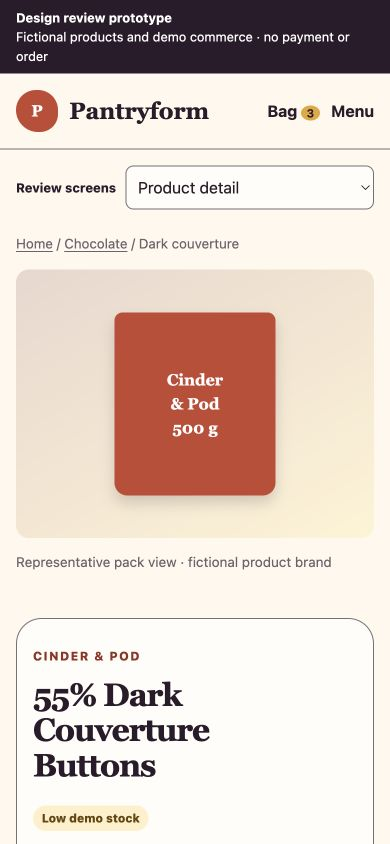
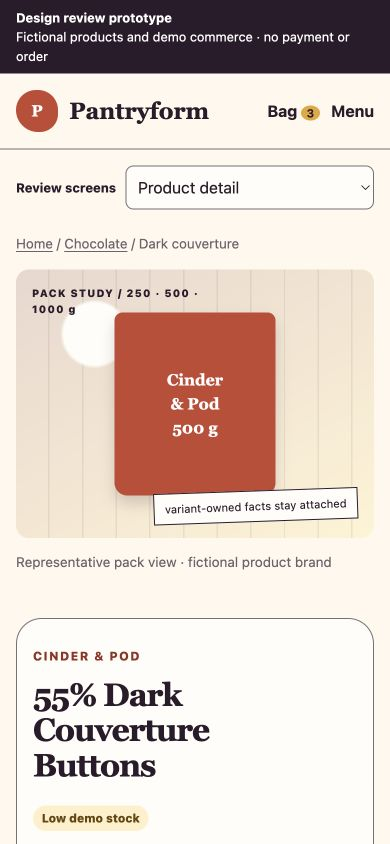
Refine Phase 4A: elevate creative direction

Changed region(s): [[0.3692, 0.5545, 0.9231, 0.6469], [0.0615, 0.3389, 0.4, 0.4313], [0.4308, 0.3389, 0.4923, 0.3697]]

diff --git a/design_review/phase_4a/app.js b/design_review/phase_4a/app.js
@@ -27,8 +27,11 @@ function confirmation(){return shell(`<div class="notice success"><p class="eyeb
 function drawer(filters=false){return shell(`<p class="eyebrow">Mobile review composition</p><h1>${filters?'Filter products':'Navigation drawer'}</h1><div class="drawer-backdrop"><aside class="drawer" role="dialog" aria-modal="true" aria-labelledby="drawer-title"><div class="toolbar"><h2 id="drawer-title">${filters?'Filter Chocolate':'Menu'}</h2><a class="button secondary" href="?view=${filters?'plp':'home'}">Close</a></div>${filters?`<p>2 filters selected</p><fieldset><legend><b>Format</b></legend><label class="checkline"><input type="checkbox" checked> Buttons (4)</label><label class="checkline"><input type="checkbox"> Chips (2)</label></fieldset><fieldset><legend><b>Pack size</b></legend><label class="checkline"><input type="checkbox" checked> 500 g (3)</label><label class="checkline"><input type="checkbox"> 1 kg (2)</label></fieldset><div class="actions"><button>Show 6 results</button><button class="secondary">Clear all</button></div>`:`<nav aria-label="Mobile"><a href="?view=plp">Shop <span>8 departments</span></a><a href="?view=recipe">Recipes</a><a href="?view=search">Search</a><a href="?view=wishlist">Wishlist <span>2</span></a><a href="?view=cart">Demo cart <span>3</span></a></nav>`}</aside></div>`)}
 function states(){return shell(`<p class="eyebrow">State language</p><h1>Important states</h1><div class="grid state-grid"><article class="card state-card"><span class="badge warn">Unavailable</span><h2>That pack is unavailable</h2><p>The selected 1 kg demo variant stays visible. Choose another explicit pack; nothing changes automatically.</p><button class="secondary">View other packs</button></article><article class="card state-card"><span class="badge error">Cart needs review</span><h2>A demo price changed</h2><p>Review the old and current price before continuing.</p><button>Review changed line</button></article><article class="card state-card"><h2>No exact matches</h2><p>Try removing “500 g”, browse Chocolate, or search for a broader term.</p><div class="actions"><button class="secondary">Remove 500 g</button><a class="button" href="?view=plp">Shop all</a></div></article><article class="card state-card"><h2>Critical product fact</h2><dl class="fact-list"><dt>Allergens</dt><dd><strong>Information not provided</strong></dd></dl><p>Unknown information is never inferred as “none”.</p></article><article class="card state-card"><span class="badge warn">Partial mapping</span><h2>1 ingredient needs review</h2><p>Salt has no mapped product. Explicitly omit it, mark it pantry-owned or return to the recipe.</p><button>Review ingredient</button></article><article class="card state-card"><span class="badge error">Something went wrong</span><h2>We couldn’t update the demo cart</h2><p>Your current items are unchanged.</p><button>Try again</button></article></div>`)}
 function components(){return shell(`<p class="eyebrow">Measured Joy system</p><h1>Major component and state sheet</h1><section class="section"><h2>Semantic colour</h2><div class="swatches"><span class="swatch" style="background:#2b1b2b;color:white">Ink</span><span class="swatch" style="background:#fff8ed">Canvas</span><span class="swatch" style="background:#c84832;color:white">Action</span><span class="swatch" style="background:#e5a72e">Accent</span><span class="swatch" style="background:#376348;color:white">Success</span><span class="swatch" style="background:#175cd3;color:white">Focus</span></div></section><section class="section"><h2>Actions and controls</h2><div class="actions"><button>Primary action</button><button class="secondary">Secondary</button><button class="tertiary">Text link action</button><button disabled>Loading…</button></div><div class="choice-row" style="margin-top:1rem"><button class="choice" aria-pressed="false">250 g</button><button class="choice" aria-pressed="true">500 g selected</button><button class="choice" disabled>1 kg unavailable</button></div></section><section class="section"><h2>Status and feedback</h2><div class="grid component-grid"><div class="notice"><b>Information</b><p>Variant facts update together.</p></div><div class="notice success"><b>Added to demo cart</b><p>1 pack was added.</p></div><div class="notice error"><b>Action needed</b><p>Review the unavailable line.</p></div></div></section><section class="section"><h2>Cards at working density</h2><div class="grid products">${products.slice(0,3).map(productCard).join('')}</div></section>`)}
-const render={home,plp,search:()=>plp(true),pdp,recipe,'recipe-cart':recipeCart,wishlist:()=>cart(true),cart,checkout,confirmation,nav:()=>drawer(false),filters:()=>drawer(true),states,components};
+function homeCreative(){const dept=[['Ingredients','01','From flour to finish'],['Chocolate','02','Melt · mould · layer'],['Colours & Flavours','03','Tint and infuse'],['Fillings & Fondant','04','Build and cover'],['Decorating','05','Pipe and detail'],['Bakeware & Tools','06','Shape the method'],['Packaging','07','Carry the finish'],['Recipes','08','Measure into making']];return shell(`<section class="measure-hero"><div class="measure-copy"><p class="eyebrow">Raw ingredient → precise measure → joyful make</p><h1>Everything for the bake, <em>measured into place.</em></h1><p class="lede">A curated working pantry for Indian home bakers—where sensory inspiration meets pack sizes, quantities and useful choices.</p><div class="actions"><a class="button" href="?view=plp">Enter the working pantry</a><a class="button secondary" href="?view=recipe">Begin with a recipe</a></div></div><div class="ingredient-stage" role="img" aria-label="Abstract ingredient study: cocoa, flour and a measured spoon arranged around a quantity scale"><span class="stage-label">INGREDIENT STUDY / 01</span><span class="ingredient flour"></span><span class="ingredient cocoa"></span><span class="ingredient colour"></span><span class="measure-spoon">75 g</span><span class="measure-axis" aria-hidden="true">0 — 25 — 50 — 75 — 100 g</span></div><div class="hero-note"><b>Measured Joy</b><span>Inspiration stays generous. Product facts stay exact.</span></div></section><section class="making-sequence" aria-labelledby="making-title"><div class="sequence-index">01—03</div><div><p class="eyebrow">A Pantryform signature</p><h2 id="making-title">From raw ingredient to finished intention</h2></div><ol><li><b>Raw</b><span>Texture and possibility</span></li><li><b>Measured</b><span>Quantity, pack and leftover</span></li><li><b>Made</b><span>A recipe ready to begin</span></li></ol></section><section class="department-atlas"><header><p class="eyebrow">The working pantry / eight departments</p><h2>Find the material, tool or finish.</h2><a href="?view=plp">View all 24 demo products →</a></header><div class="atlas-grid">${dept.map((d,i)=>`<a class="atlas-item atlas-${i+1}" href="${d[0]==='Recipes'?'?view=recipe':'?view=plp'}"><span class="atlas-number">${d[1]}</span><span class="atlas-shape" aria-hidden="true"></span><h3>${d[0]}</h3><p>${d[2]}</p></a>`).join('')}</div></section><section class="editorial-product-stage"><div class="stage-copy"><p class="eyebrow">Ingredient Theatre / controlled</p><h2>A closer look at what changes the bake.</h2><p>One tactile ingredient study leads into a precise product decision: fictional brand, pack, demo price and availability remain inseparable.</p><a class="button secondary" href="?view=pdp">Explore dark couverture</a></div><div class="stage-product">${productCard(products[1],1)}</div><div class="cocoa-field" aria-hidden="true"><span></span><span></span><span></span><span></span><b>55%</b></div></section><section class="recipe-bridge"><div class="recipe-number">12</div><div><p class="eyebrow">Recipe → supplies</p><h2>Chocolate celebration cake</h2><p>Scale the servings. See what the recipe asks for. Review the smallest sufficient packs and every expected leftover.</p></div><div class="recipe-path" aria-hidden="true"><span>240 g</span><i></i><span>500 g pack</span><i></i><span>260 g left</span></div><a class="button" href="?view=recipe-cart">See the transformation</a></section>${demoNotice}`)}
+const render={home:homeCreative,plp,search:()=>plp(true),pdp,recipe,'recipe-cart':recipeCart,wishlist:()=>cart(true),cart,checkout,confirmation,nav:()=>drawer(false),filters:()=>drawer(true),states,components};
 main.innerHTML=render[view]();
+document.body.classList.add(`view-${view}`);
+if(view==='recipe-cart'){const title=main.querySelector('h1');title.insertAdjacentHTML('afterend',`<div class="transformation-signature" aria-label="Recipe-to-supplies transformation"><span><b>01</b> Recipe need</span><i aria-hidden="true"></i><span><b>02</b> Measured quantity</span><i aria-hidden="true"></i><span><b>03</b> Selected pack</span><i aria-hidden="true"></i><span><b>04</b> Explicit cart</span></div>`)}
 document.title=`${views[view]} — Pantryform Phase 4A`;
 document.querySelectorAll('[data-action]').forEach(el=>el.addEventListener('click',()=>{status.textContent=el.dataset.action==='recipe-add'?'3 selected ingredients added to the demo cart.':'Added to the demo cart.'}));
 const form=document.querySelector('#demo-form');if(form)form.addEventListener('submit',e=>{e.preventDefault();if(form.reportValidity())location.href='?view=confirmation'});

diff --git a/design_review/phase_4a/styles.css b/design_review/phase_4a/styles.css
@@ -8,3 +8,9 @@
 .hero-art:after{right:0}
 .text-zoom{font-size:200%}.force-reduced-motion *,.force-reduced-motion *:before,.force-reduced-motion *:after{scroll-behavior:auto!important;animation:none!important;transition:none!important}
 .text-zoom *{min-width:0;max-width:100%;overflow-wrap:anywhere}.text-zoom .site-header{display:block}.text-zoom .brand small{display:none}.text-zoom .brand b{font-size:1rem}.text-zoom .header-actions{margin-top:.75rem;flex-wrap:wrap}.text-zoom .actions{display:grid}.text-zoom .mapping-row.meta,.text-zoom .cart-line.meta{display:none}.text-zoom .checkline{flex-wrap:wrap}.text-zoom .badge{white-space:normal}.text-zoom .summary-line{display:block}.text-zoom .swatch{width:100%;border-radius:var(--r-sm)}
+
+/* Phase 4A art direction: ingredient → measure → method → make. */
+.measure-hero{min-height:680px;display:grid;grid-template-columns:minmax(0,1fr) minmax(420px,.92fr);gap:4rem;align-items:center;position:relative;padding:3rem 0 6rem}.measure-copy h1{font-size:clamp(3.6rem,7vw,7rem);max-width:10ch}.measure-copy h1 em{font-weight:400;color:var(--coral-dark)}.ingredient-stage{aspect-ratio:1;position:relative;background:radial-gradient(circle at 42% 38%,#f7e9d2 0 42%,transparent 43%),repeating-radial-gradient(circle at 60% 60%,rgba(43,27,43,.06) 0 1px,transparent 1px 8px);border-radius:48% 52% 43% 57%;isolation:isolate}.stage-label{position:absolute;right:0;top:8%;font-size:.68rem;font-weight:850;letter-spacing:.14em;writing-mode:vertical-rl}.ingredient{position:absolute;border-radius:50%;box-shadow:0 20px 45px rgba(43,27,43,.14)}.ingredient.flour{width:38%;height:38%;left:14%;top:14%;background:radial-gradient(circle,#fffdf8 0 3px,#efe4d4 4px 6px,#fff8ed 7px)}.ingredient.cocoa{width:30%;height:30%;right:10%;bottom:16%;background:radial-gradient(circle at 35% 30%,#884b35,#4b251f 65%)}.ingredient.colour{width:16%;height:16%;right:22%;top:20%;background:radial-gradient(circle at 35% 30%,#efbd40,#c67d00)}.measure-spoon{position:absolute;left:8%;bottom:12%;width:56%;height:13%;border:2px solid var(--ink);border-radius:999px;background:var(--surface);display:flex;align-items:center;justify-content:flex-end;padding-right:1.2rem;font-weight:850;transform:rotate(-11deg);z-index:2}.measure-spoon:before{content:"";width:32%;aspect-ratio:1;position:absolute;left:-2%;border:2px solid var(--ink);border-radius:50%;background:var(--turmeric)}.measure-axis{position:absolute;left:0;top:50%;font-size:.66rem;letter-spacing:.12em;transform:rotate(-90deg) translateX(-50%);transform-origin:left top}.hero-note{position:absolute;right:0;bottom:1.5rem;width:46%;display:grid;grid-template-columns:auto 1fr;gap:1rem;border-top:2px solid var(--ink);padding-top:.75rem;font-size:.85rem}.making-sequence{margin:0 calc(50% - 50vw);padding:4rem max(1rem,calc((100vw - var(--max))/2));background:var(--ink);color:white;display:grid;grid-template-columns:6rem 1fr 1.3fr;gap:3rem;align-items:start}.sequence-index{font-family:Georgia,serif;font-size:2rem;color:var(--turmeric)}.making-sequence ol{list-style:none;padding:0;margin:0;display:grid;grid-template-columns:repeat(3,1fr)}.making-sequence li{min-height:130px;border-left:1px solid #766979;padding:0 1.2rem;display:flex;flex-direction:column;justify-content:space-between}.making-sequence li b{font-family:Georgia,serif;font-size:1.8rem}.making-sequence li span{color:#d9ced9}.department-atlas{padding:7rem 0}.department-atlas>header{display:grid;grid-template-columns:1.3fr 1fr;align-items:end;margin-bottom:2rem}.department-atlas>header .eyebrow{grid-column:1/-1}.department-atlas>header h2{font-size:clamp(2.6rem,5vw,5rem);max-width:11ch}.department-atlas>header>a{justify-self:end;margin-bottom:1rem}.atlas-grid{display:grid;grid-template-columns:repeat(12,1fr);grid-auto-rows:74px;gap:1rem}.atlas-item{border-top:2px solid var(--ink);padding:.8rem;position:relative;overflow:hidden;text-decoration:none;background:var(--surface);display:flex;flex-direction:column;justify-content:flex-end}.atlas-item h3{margin:0;z-index:2}.atlas-item p{margin:.25rem 0 0;color:var(--muted);font-size:.78rem;z-index:2}.atlas-number{position:absolute;right:.7rem;top:.5rem;font-size:.65rem;font-weight:850}.atlas-shape{position:absolute;width:90px;height:90px;border-radius:50%;background:var(--rose);right:-20px;top:-25px}.atlas-2 .atlas-shape,.atlas-5 .atlas-shape{border-radius:0;transform:rotate(34deg);background:#d8b39b}.atlas-3 .atlas-shape,.atlas-8 .atlas-shape{background:var(--turmeric);clip-path:polygon(50% 0,100% 100%,0 100%)}.atlas-1{grid-column:1/6;grid-row:1/4}.atlas-2{grid-column:6/10;grid-row:1/3}.atlas-3{grid-column:10/13;grid-row:1/5}.atlas-4{grid-column:1/4;grid-row:4/7}.atlas-5{grid-column:4/8;grid-row:3/7}.atlas-6{grid-column:8/10;grid-row:3/7}.atlas-7{grid-column:10/13;grid-row:5/7}.atlas-8{grid-column:1/13;grid-row:7/9;background:var(--ink);color:#fff}.atlas-8 p{color:#ddd0dd}.editorial-product-stage{margin:0 calc(50% - 50vw);padding:6rem max(1rem,calc((100vw - var(--max))/2));background:#ead8cc;display:grid;grid-template-columns:1fr .8fr 1fr;gap:3rem;align-items:center;overflow:hidden}.stage-copy h2{font-size:clamp(2.7rem,5vw,5.6rem)}.stage-product{transform:rotate(2deg);z-index:2}.stage-product .product-card{box-shadow:var(--shadow)}.cocoa-field{position:relative;aspect-ratio:1}.cocoa-field span{position:absolute;border-radius:50%;background:#633329;box-shadow:inset -15px -15px 25px rgba(0,0,0,.22)}.cocoa-field span:nth-child(1){width:45%;height:45%;left:5%;top:8%}.cocoa-field span:nth-child(2){width:28%;height:28%;right:5%;top:0}.cocoa-field span:nth-child(3){width:36%;height:36%;right:12%;bottom:8%}.cocoa-field span:nth-child(4){width:20%;height:20%;left:15%;bottom:5%}.cocoa-field b{position:absolute;inset:34% auto auto 32%;font-family:Georgia,serif;font-size:5rem;color:#fff}.recipe-bridge{padding:7rem 0;display:grid;grid-template-columns:.4fr 1.1fr 1fr auto;gap:2rem;align-items:center;border-bottom:1px solid var(--ink)}.recipe-number{font-family:Georgia,serif;font-size:clamp(6rem,12vw,11rem);line-height:.7;color:var(--coral)}.recipe-path{display:flex;align-items:center;gap:.5rem;font-size:.72rem;font-weight:800}.recipe-path i{height:1px;flex:1;background:var(--ink);position:relative}.recipe-path i:after{content:"";position:absolute;right:0;top:-3px;border-left:6px solid var(--ink);border-top:3px solid transparent;border-bottom:3px solid transparent}.transformation-signature{display:grid;grid-template-columns:auto 1fr auto 1fr auto 1fr auto;gap:.8rem;align-items:center;margin:1.5rem 0 2rem;padding:1rem 0;border-top:1px solid var(--ink);border-bottom:1px solid var(--ink);font-size:.78rem;text-transform:uppercase;letter-spacing:.06em}.transformation-signature span{display:grid}.transformation-signature b{font-family:Georgia,serif;font-size:1.4rem;color:var(--coral)}.transformation-signature i{height:1px;background:var(--ink)}.view-pdp .product-media{position:relative;background:radial-gradient(circle at 22% 24%,#fffdf8 0 9%,transparent 10%),repeating-linear-gradient(90deg,transparent 0 9%,rgba(43,27,43,.08) 9% 9.4%),linear-gradient(150deg,#ead7ce,#fff3d3)}.view-pdp .product-media:before{content:"PACK STUDY / 250 · 500 · 1000 g";position:absolute;left:1rem;top:1rem;font-size:.65rem;font-weight:850;letter-spacing:.11em}.view-pdp .product-media:after{content:"variant-owned facts stay attached";position:absolute;right:1rem;bottom:1rem;font-size:.7rem;background:var(--surface);border:1px solid var(--ink);padding:.4rem .65rem;transform:rotate(-2deg)}
+@media(max-width:768px){.measure-hero{grid-template-columns:1fr;padding-top:1rem}.measure-copy h1{font-size:clamp(3.2rem,15vw,5rem)}.ingredient-stage{order:-1;width:92%;justify-self:end}.hero-note{position:static;width:100%;grid-template-columns:1fr;margin-top:-2rem}.making-sequence{grid-template-columns:1fr;gap:1.5rem}.making-sequence ol{grid-template-columns:1fr}.making-sequence li{min-height:80px;border-left:0;border-top:1px solid #766979;padding:1rem 0}.department-atlas{padding:5rem 0}.department-atlas>header{grid-template-columns:1fr}.department-atlas>header>a{justify-self:start}.atlas-grid{grid-template-columns:repeat(2,1fr);grid-auto-rows:auto}.atlas-item{grid-column:auto!important;grid-row:auto!important;min-height:150px}.atlas-1,.atlas-8{grid-column:1/-1!important}.editorial-product-stage{grid-template-columns:1fr}.cocoa-field{height:260px;aspect-ratio:auto}.recipe-bridge{grid-template-columns:1fr}.recipe-number{font-size:7rem}.transformation-signature{grid-template-columns:1fr}.transformation-signature i{width:1px;height:22px;margin-left:1rem}.view-pdp .product-media:before{max-width:50%}}
+@media(max-width:390px){.atlas-grid{grid-template-columns:1fr}.atlas-1,.atlas-8{grid-column:auto!important}.measure-spoon{width:64%}.recipe-path{display:grid;grid-template-columns:1fr}.recipe-path i{width:1px;height:18px;margin-left:1rem}.editorial-product-stage{padding-top:4rem;padding-bottom:4rem}}
+.text-zoom .making-sequence,.text-zoom .department-atlas>header,.text-zoom .atlas-grid,.text-zoom .editorial-product-stage,.text-zoom .recipe-bridge,.text-zoom .transformation-signature{grid-template-columns:1fr}.text-zoom .atlas-item{grid-column:auto!important;grid-row:auto!important}.text-zoom .ingredient-stage{width:100%}

diff --git a/production_artifacts/04_visual_system/Visual_Direction.md b/production_artifacts/04_visual_system/Visual_Direction.md
@@ -14,6 +14,63 @@ The visual system should make specialist baking retail feel ordered, tactile and
 
 The result is contemporary and premium-accessible: generous rather than sparse, warm rather than cute, exact rather than clinical.
 
+## Signature moments
+
+These moments are structural expressions of Pantryform, not detachable decoration. Each preserves the approved task order and has a complete no-animation state.
+
+### 1. The measured ingredient study — homepage opening
+
+- **Concept:** an oversized editorial headline sits beside a composed flour/cocoa/colour study, crossed by a labelled measuring-spoon form and a 0–100 g axis. The narrative is raw ingredient → precise measure → joyful make.
+- **Why Pantryform:** sensory baking material is joined to exact quantity language; the composition could not introduce apparel, electronics or a generic marketplace unchanged.
+- **Desktop:** asymmetrical two-part stage, extreme type scale and bottom-edge principle note; Shop and Recipe remain first-order controls.
+- **Mobile:** ingredient study precedes copy as a contained square; scale compresses and the note moves in-flow.
+- **Accessibility:** one concise image description covers the composition; decorative forms are hidden; heading/actions remain semantic with high-contrast focus.
+- **Reduced/no animation:** the full arrangement is present immediately; optional future drift/parallax disappears without hiding content.
+- **Task protection:** art stays bounded and never overlays the value proposition, descriptor, navigation or actions.
+
+### 2. The department atlas — ingredient discovery
+
+- **Concept:** eight departments form a numbered irregular 12-column atlas rather than a repeated card rail. Ingredient/tool-derived marks and short making verbs provide rhythm while names remain primary.
+- **Why Pantryform:** the sequence moves from raw materials through tools and packaging to Recipes, expressing a working baking pantry rather than arbitrary merchandise.
+- **Desktop:** deliberately unequal spans create controlled asymmetry and culminate in a full-width Recipes bridge.
+- **Mobile:** the atlas becomes a deliberate one/two-column editorial index; no item relies on hover, colour or position for identity.
+- **Accessibility:** every cell is a descriptive link; number/shape are redundant; focus follows DOM order 01–08.
+- **Reduced/no animation:** the mosaic is static; later hover texture carries no meaning and is removable.
+- **Task protection:** all eight approved departments stay named, ordered and equally reachable.
+
+### 3. Ingredient Theatre product study — inspiration into facts
+
+- **Concept:** a controlled cocoa field, a tilted but fully readable product card and editorial explanation transition from material fascination to exact pack decision.
+- **Why Pantryform:** ingredient percentage, texture, format, pack and unit price share one narrative instead of generic lifestyle imagery.
+- **Desktop:** three unequal columns—premise, purchasable card, macro ingredient field—create a magazine-like interruption.
+- **Mobile:** columns stack premise → product decision → texture; facts never overlay imagery.
+- **Accessibility:** texture is decorative; product identity, price, unit price, availability and action remain text, including on image failure.
+- **Reduced/no animation:** static crops/layout carry the idea; scroll reveal is unnecessary.
+- **Task protection:** the PDP action and complete facts remain the strongest interactive object.
+
+### 4. Recipe-to-supplies transformation
+
+- **Concept:** a four-stage rail—recipe need → measured quantity → selected pack → explicit cart—precedes the mapping. Homepage shorthand shows 240 g → 500 g pack → 260 g leftover.
+- **Why Pantryform:** smallest-sufficient-pack logic and leftover transparency become a story specific to baking quantities.
+- **Desktop:** horizontal rail aligns conceptually with mapping columns without replacing them.
+- **Mobile:** stages stack as a vertical measured path before labelled mapping cards.
+- **Accessibility:** the rail has a group label and readable stage text; connectors are decorative. Mapping, errors and CTA remain semantic.
+- **Reduced/no animation:** all stages appear at once; future progress fills are removed.
+- **Task protection:** it never mutates the cart or hides unmapped, optional, pantry-owned or unavailable rows.
+
+### 5. Variant-owned pack study — PDP
+
+- **Concept:** pack media sits on a measurement-grid backdrop with a “250 · 500 · 1000 g” study label, linking the object to its selector and variant-owned facts.
+- **Why Pantryform:** pack-size comparison and measured quantity become the visual subject, rather than generic pack photography.
+- **Desktop/mobile:** the stage scales before the purchase panel on mobile; annotations remain secondary to identity and selection.
+- **Accessibility:** marks are decorative; selected pack, price, unit price and demo availability remain atomic text updates.
+- **Reduced/no animation:** no carousel/morph is required; media may swap instantly.
+- **Task protection:** the stage never obscures selection, Add to demo cart or critical facts.
+
+## Generic-template test
+
+Remove the Pantryform name, palette and product images: the experience still retains a measuring spoon and quantity axis, raw→measured→made sequence, eight-part baking-pantry atlas, controlled ingredient macro study, pack-size measurement stage and recipe-required→pack→leftover transformation. These structural cues remain recognizably about baking ingredients, measurement and making. The system fails this test if later work replaces them with a standard hero, uniform promotional rails or interchangeable rounded cards.
+
 ## Visual principles
 
 ### 1. Warm structure

diff --git a/production_artifacts/04_visual_system/High_Fidelity_Screen_Specifications.md b/production_artifacts/04_visual_system/High_Fidelity_Screen_Specifications.md
@@ -11,9 +11,9 @@ Reference widths for design/QA: 1440, 1280, 1024, 768, 430, 390, 360 and 320 CSS
 
 ## 1. Homepage
 
-**Desktop:** A contained editorial opening pairs a concise proposition/action group with one material-led making image; it must not consume the full first viewport. Follow with an eight-destination department grid, a horizontal task-led strip, four-product curated grid, recipe-to-supplies split feature, practical demo/selection cues and footer. Alternating dense and generous sections create measured abundance.
+**Desktop:** An art-directed measured-ingredient opening pairs an extreme-scale proposition with an abstract flour/cocoa/colour study, labelled spoon form and quantity axis. It is followed by a dark raw→measured→made sequence, an irregular numbered 12-column department atlas, a controlled three-part Ingredient Theatre/product study, and a recipe bridge that diagrams required quantity → selected pack → leftover. This is an editorial journey, not a standard hero plus repeated rails. Shop/Recipes actions and all eight departments retain the approved priority.
 
-**Mobile:** Proposition and Shop/Recipes actions precede media. Department tiles form a two-column grid (one column at 320 px if labels wrap poorly); task and product cards scroll only when equivalent “View all” links exist, otherwise stack. Recipe bridge is image → copy → action. No content is hidden behind carousels.
+**Mobile:** Ingredient study precedes the proposition as a bounded square; copy/actions follow. The making sequence becomes a vertical numbered rhythm. The atlas uses intentional two-column spans and becomes one column at narrow/zoomed widths. Ingredient Theatre stacks premise → factual product card → decorative texture. The recipe transformation becomes a vertical measured path. No content is hidden behind carousels or requires motion.
 
 **States:** opening-media failure uses texture field; empty curated/recipe modules collapse with section-specific fallback; partial modules isolate error; page-level error preserves navigation and department links.
 

diff --git a/docs/Decision_Log.md b/docs/Decision_Log.md
@@ -29,6 +29,7 @@ Confirmed decisions are authoritative. Proposals and assumptions do not become d
 | D-023 | 2026-08-24 | Confirmed | Phase 2A strategy and naming rework are externally approved; authorize Phase 2B Catalog, Commerce and IA Architecture only. | External review verdict | Architecture may proceed; wireframes, visual UI, generated assets, motion implementation and code remain blocked. |
 | D-024 | 2026-08-24 | Confirmed | Phase 2B Catalog, Commerce and IA Architecture is externally approved at commit `475b603157b27b735357e132720796f0e6077db1` and is the binding source of truth for Phase 3. | External Phase 2B review verdict | Phase 3 UX definition and low-fidelity wireframes were authorized; visual design, assets, motion, catalog production and code remained gated. |
 | D-025 | 2026-08-24 | Confirmed | Phase 3 UX Definition and Low-Fidelity Wireframes is externally approved at commit `1b0c5fa60a0b50290cad6bf5bb3ec5de3ee55d01` and is binding for Phase 4A. | External Phase 3 review verdict | Phase 4A visual direction, design system and isolated static review prototype were authorized; Phase 4B and production work remain gated. |
+| D-026 | 2026-08-24 | Confirmed | Phase 4A must demonstrate a portfolio-worthy, baking-specific art direction with at least three signature moments and pass a generic-template test, without changing approved commerce/UX behavior. | User creative-direction addendum | Phase 4A prototype and screenshots require visible creative refinement; novelty remains subordinate to accessibility and task clarity. |
 | P-001 | 2026-08-24 | Superseded by D-010 | Prioritize home bakers/hobbyists, with micro-bakeries secondary. | Approved | No longer an open proposal. |
 | P-002 | 2026-08-24 | Superseded by D-011 | Ship v1 UI in English only while keeping content structures localization-ready. | Approved | No longer an open proposal. |
 | P-003 | 2026-08-24 | Superseded by D-012 | Present the demo as a curated multi-brand retailer rather than a single-brand shop or marketplace. | Approved | No longer an open proposal. |

diff --git a/production_artifacts/04_visual_system/Phase_4A_Design_Readout.md b/production_artifacts/04_visual_system/Phase_4A_Design_Readout.md
@@ -13,6 +13,12 @@ Approve **The Measured Pantry** as Pantryform’s high-fidelity visual direction
 - Responsive structure uses 4, 8 and 12 columns with content-driven transformations tied to the approved eight-width test set.
 - Rounded, tactile geometry is reserved for friendly grouping and actions; data-heavy recipe/cart structures stay measured and rectilinear.
 - The static prototype uses CSS-only neutral pack placeholders rather than untracked/generated production imagery.
+- Five Pantryform-specific signature moments are demonstrated: measured ingredient opening, department atlas, Ingredient Theatre product study, recipe-to-supplies transformation and PDP pack study.
+- The homepage uses an asymmetric editorial sequence rather than a standard hero followed by repetitive rails; it moves visibly from raw ingredient through measure and method to a shoppable decision.
+
+## Generic-template test result
+
+**Pass after creative-direction refinement.** With name, colours and product images removed, the structure still exposes a quantity axis and measuring-spoon form, raw→measured→made sequence, numbered baking-pantry atlas, pack-size study, ingredient-to-product transition and required quantity→selected pack→leftover recipe story. These cues are specific to baking ingredients and supplies and are present in the prototype/screenshots, not only described here.
 
 ## Alternatives considered
 
@@ -37,6 +43,7 @@ Approve **The Measured Pantry** as Pantryform’s high-fidelity visual direction
 - Review navigation: `http://127.0.0.1:4173/`
 - Screenshot pack: `production_artifacts/04_visual_system/previews/`
 - Captures are deterministic viewport screenshots, not production representations or generated product assets.
+- Homepage, PDP and recipe-to-cart captures visibly demonstrate the signature moments and intentional mobile adaptations.
 
 ## Assumptions and remaining risks
 

diff --git a/production_artifacts/04_visual_system/Component_Visual_Specification.md b/production_artifacts/04_visual_system/Component_Visual_Specification.md
@@ -85,6 +85,14 @@ No department meaning relies on colour. Avoid generic pink/pastel coding, rainbo
 - Department tiles use material-led crops or graphic ingredient/tool arrangements, a clear destination label and optional factual category cue. Recipes uses editorial image language but remains visually equal in navigation.
 - Task tiles use concise verbs (“Colour and finish”, “Pack and present”) with small measured diagrams or material crops, never novelty cupcake icons.
 - States: default, hover/focus, image missing, partial content. Image absence preserves a purposeful colour/texture field and label.
+- Homepage discovery uses the **department atlas** variant: irregular 12-column spans, numbered 01–08, baking-material geometry and a Recipes bridge. DOM order remains the approved department order; mobile reflows rather than preserving spatial asymmetry. Standard tiles remain available for dense utility contexts, so the signature treatment does not infect every listing surface.
+
+### Signature narrative markers
+
+- Measurement axes, spoon silhouettes, numbered process rails and pack-study annotations use compact technical labels, 1–2 px rules and ingredient-derived forms. They may orient or create rhythm but never replace a heading, quantity, selected state or control.
+- The recipe transformation marker expresses recipe need → measured quantity → selected pack → explicit cart. It is a labelled preface to the mapping rows, not a progress widget and not a cart mutation.
+- Ingredient fields are decorative CSS/imagery layers with hidden individual shapes and one concise composition description when needed. No texture carries compatibility, quality or result claims.
+- At reduced motion every signature is already in its final composition. At 200% text, narrative grids become one column and annotations wrap or move in-flow.
 
 ### Product card
 

diff --git a/production_artifacts/reviews/Current_Review_Packet.md b/production_artifacts/reviews/Current_Review_Packet.md
@@ -48,6 +48,8 @@ The Measured Pantry uses aubergine structure, warm canvas, restrained coral/turm
 
 The corrected action coral is `#C54731`. The candidate `#C84832` remains decorative-only because it measured 4.49:1 against canvas and missed normal-text AA; the corrected pairing measures 4.61:1, and white button text measures 4.86:1.
 
+The creative-direction addendum is implemented through five visible Pantryform signatures: measured ingredient opening, irregular department atlas, controlled Ingredient Theatre product study, recipe-to-supplies transformation rail and PDP pack study. These create an ingredient→measurement→method→make journey while utility screens retain Working Pantry precision.
+
 ## Acceptance evidence
 
 - [x] Fourteen required design artifacts exist and are non-empty.
@@ -61,6 +63,9 @@ The corrected action coral is `#C54731`. The candidate `#C84832` remains decorat
 - [x] All 14 screens passed deterministic 320px/200% text plus no-animation validation.
 - [x] Browser logs contained no warnings or errors; visible focus uses a 3px blue outline.
 - [x] No unsupported claims, real-commerce implication, generated production imagery, production motion or application engineering was introduced.
+- [x] Five signature moments document concept, Pantryform specificity, desktop/mobile composition, accessibility, no-animation equivalent and task protection.
+- [x] The refreshed homepage, PDP and recipe-to-cart screenshots demonstrate the art direction rather than only describing it.
+- [x] Generic-template test passes: baking measurement, pantry, pack and recipe-transformation cues remain recognisable without name, colour or product imagery.
 
 ## Assumptions and open risks
 

diff --git a/docs/Risk_Register.md b/docs/Risk_Register.md
@@ -35,3 +35,4 @@ Scale: likelihood and impact are Low / Medium / High. Owners review risks at eve
 | R-029 | Final font files, licensing, subsetting or loading differ from the specified Fraunces/Inter system and cause layout shift or glyph gaps. | M | M | Verify exact open-source files/licences and Indian-English glyph coverage; self-host or use fallbacks; test loading and long-content fixtures before implementation approval. | UI + Engineering + QA | Open |
 | R-030 | Ingredient Theatre imagery obscures pack identity, variant truth or factual product information. | M | H | Enforce the Phase 4A crop/pack/alt/provenance rules; imagery cannot replace text; review every production asset in the Asset Manifest. | Visual Assets + Catalog + QA | Open |
 | R-031 | Static review-prototype behavior is mistaken for production readiness or becomes an accidental application foundation. | M | H | Keep it isolated and dependency-free with persistent prototype disclosure/noindex; production engineering starts separately from approved contracts and tests. | PM + Engineering | Open |
+| R-032 | Creative asymmetry or ingredient theatre obscures navigation, facts, focus order or commerce actions. | M | H | Bind signature moments to semantic source order, bounded decorative layers, mobile linearization, 200%/320px tests and no-animation equivalents; reject novelty that changes Phase 3 behavior. | UI + UX + QA | Open |

diff --git a/production_artifacts/04_visual_system/Phase_4A_Brief.md b/production_artifacts/04_visual_system/Phase_4A_Brief.md
@@ -19,6 +19,7 @@ Translate approved brand, architecture and UX into one accessible, implementatio
 - Visual component/state and high-fidelity screen specifications.
 - Content-fit stress tests, future motion opportunities and traceability.
 - Static review prototype with representative high-fidelity desktop/mobile compositions and screenshot pack.
+- Portfolio-worthy baking-specific art direction with at least three documented signature moments and a visible ingredient→measure→method→make journey.
 
 ## Constraints
 
@@ -42,6 +43,7 @@ No production ecommerce application, Next.js implementation, production motion, 
 - Screenshot pack includes the eleven required deterministic desktop/mobile captures and manifest.
 - Browser validation finds no blocking console errors or horizontal overflow at the eight viewport widths; keyboard focus is visible; deterministic 200% text and no-animation modes preserve content and task completion.
 - No approved UX behavior changes and no prohibited downstream work or claims are introduced.
+- Removing name, palette and product imagery still leaves a recognisable baking/measurement/making structure; prototype evidence—not prose alone—must pass this generic-template test.
 
 ## Dependencies downstream
 

diff --git a/production_artifacts/04_visual_system/Visual_Traceability_Matrix.md b/production_artifacts/04_visual_system/Visual_Traceability_Matrix.md
@@ -17,3 +17,7 @@
 | Product/ingredient imagery | D-006, D-007, D-013, D-020 | F4 | variant-owned media | Content requirements | factual alt/provenance; R-001, R-002, R-008 |
 | Motion opportunity map | D-005 | F6 | state transitions | reduced-motion requirements | no functional dependency; R-005 |
 | Static review prototype | D-004, D-005, D-013, D-022 | F1–F6 | all provider/simulation boundaries | all 19 blueprints | visible demo boundary; R-006, R-025–R-028 |
+| Measured ingredient opening | D-010, D-020 | F1, F4 | retailer/product distinction | Homepage hierarchy; wireframe 1 | bounded art/semantic copy; R-016–R-019 |
+| Numbered department atlas | D-012, D-015 | F1, F6 | eight-department taxonomy | Navigation; Homepage hierarchy | DOM order/non-colour links; R-003, R-013 |
+| Recipe transformation rail | D-016, D-017 | F5 | RTC rules and units | Recipe review spec; wireframe 10 | mapping unchanged; R-004, R-021, R-024 |
+| PDP pack-size study | D-013, D-017 | F2–F4 | variant-owned media/facts | PDP spec; wireframe 7 | decorative marks/atomic text facts; R-002, R-012 |

diff --git a/production_artifacts/00_project/Backlog.md b/production_artifacts/00_project/Backlog.md
@@ -62,6 +62,9 @@
 - [x] Browser checks cover 112 route/viewport combinations with no horizontal overflow after correction; no blocking console errors were found.
 - [x] 320px + deterministic 200% text and no-animation modes pass all representative screens.
 - [x] No approved Phase 3 behavior, unsupported claim, real-commerce implication or prohibited Phase 4B+/production work was introduced.
+- [x] Five baking-specific signature moments are documented and visibly demonstrated in the prototype.
+- [x] The homepage replaces generic hero/rail repetition with an asymmetric ingredient→measure→method→make editorial journey.
+- [x] Generic-template test passes with recognisable measurement, pantry, pack and recipe-transformation structure after removing name/colour/product imagery.
 
 ## Phase 0 acceptance checklist
 
